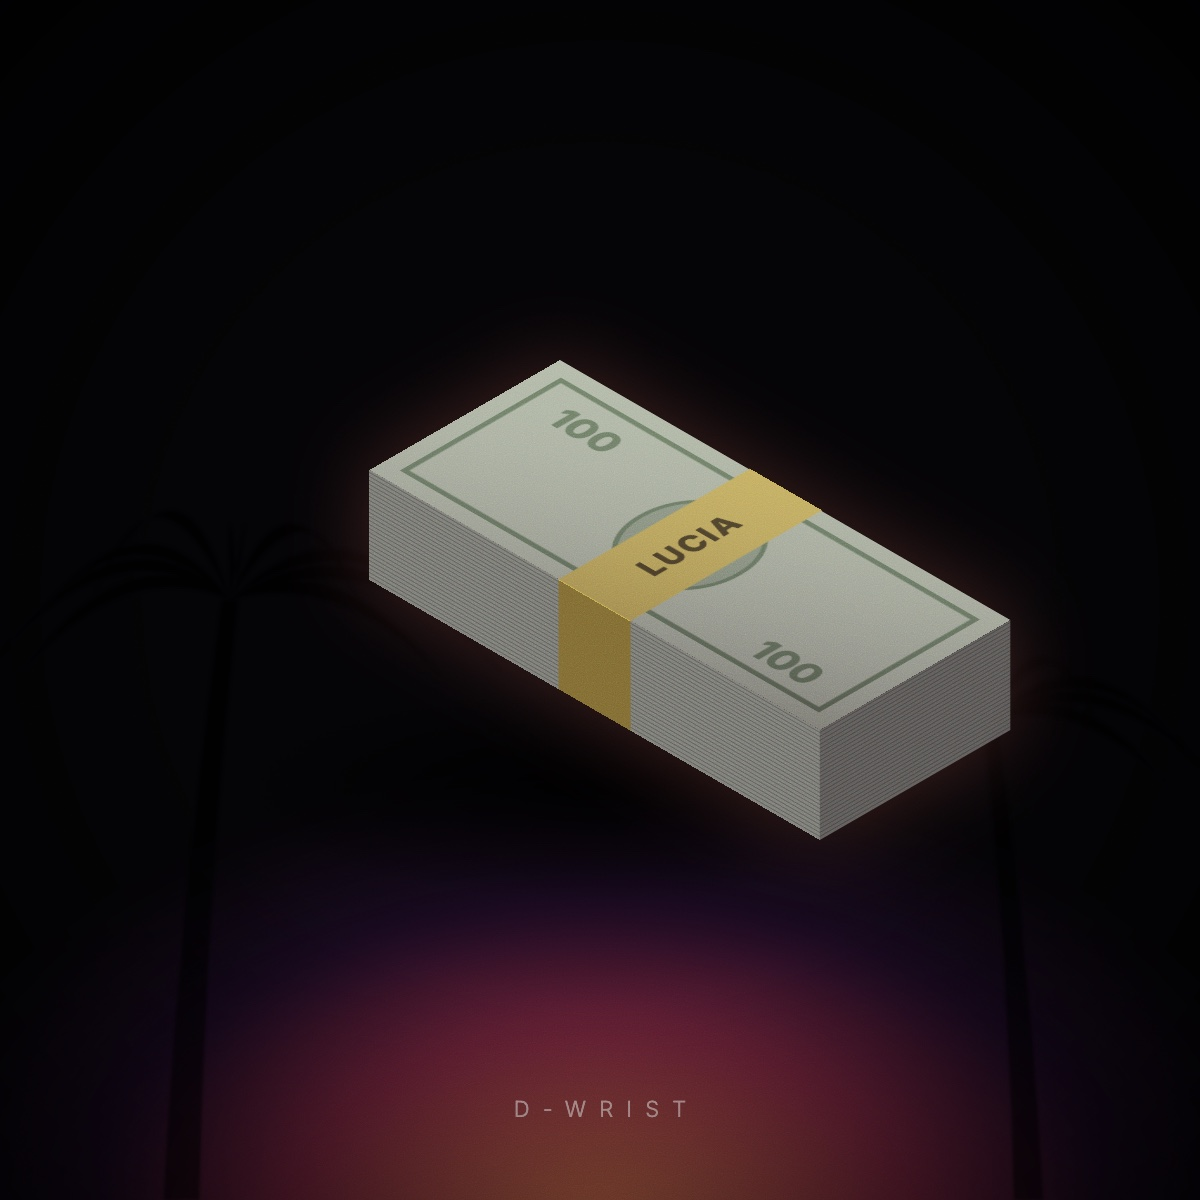
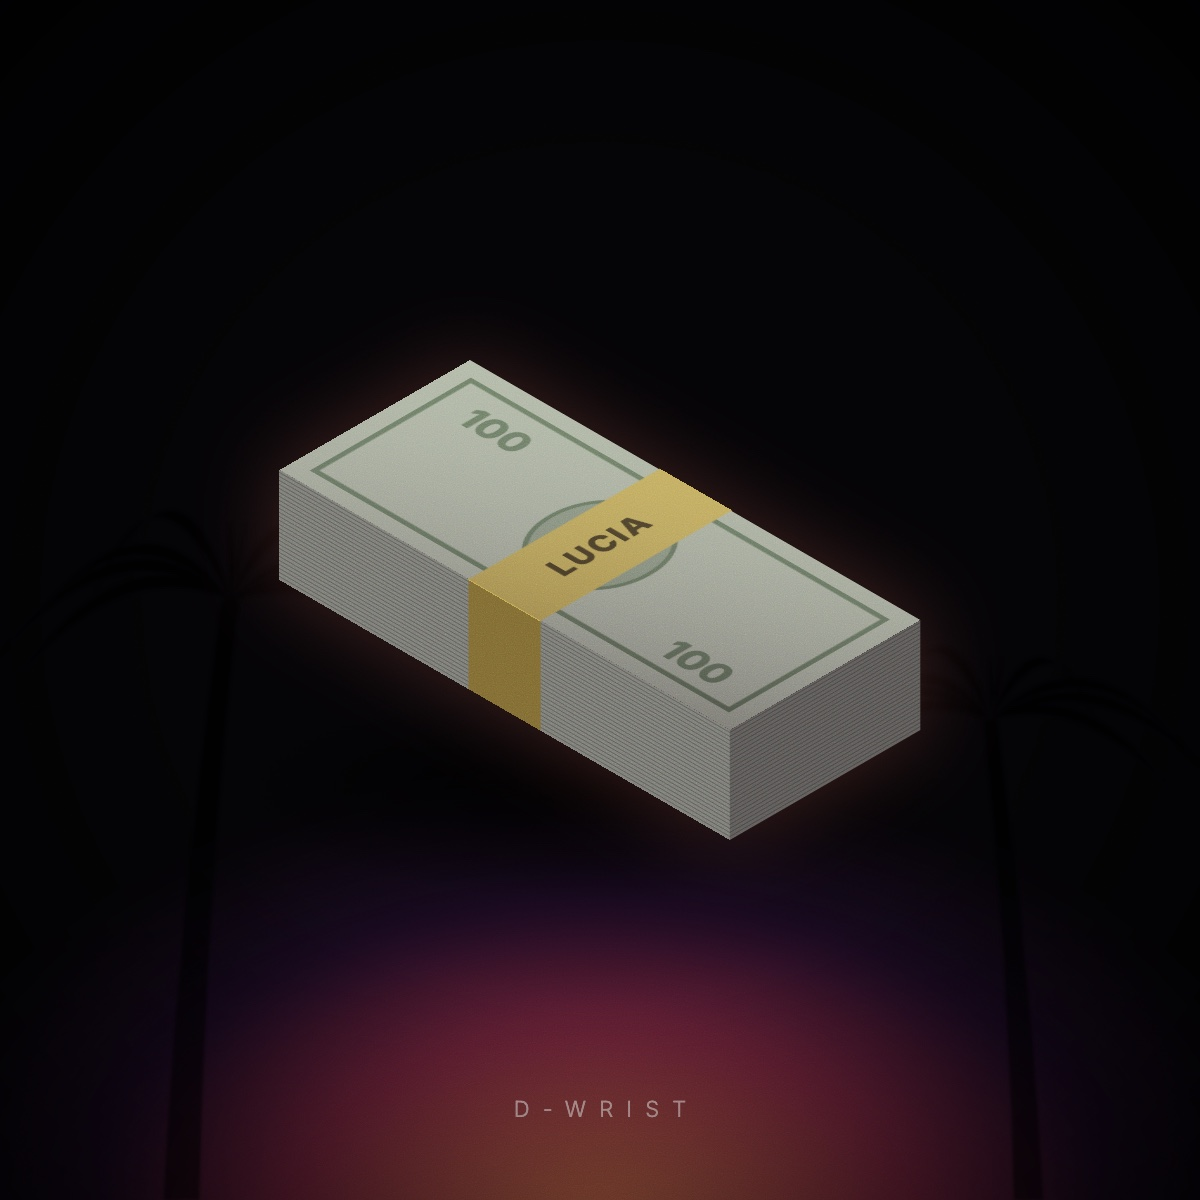
Cover LUCIA : liasse recentrée

Changed region(s): [[0.2158, 0.2775, 0.8633, 0.7092]]

diff --git a/tracks.js b/tracks.js
@@ -43,7 +43,7 @@ const TRACKS = [
     title: "LUCIA",
     artist: "D-wrist",
     mood: "vice",
-    cover: "covers/lucia.jpg",
+    cover: "covers/lucia.jpg?v=2",
     audio: "audio/lucia.wav",
     lyrics: `
 [00:00.00]♪
